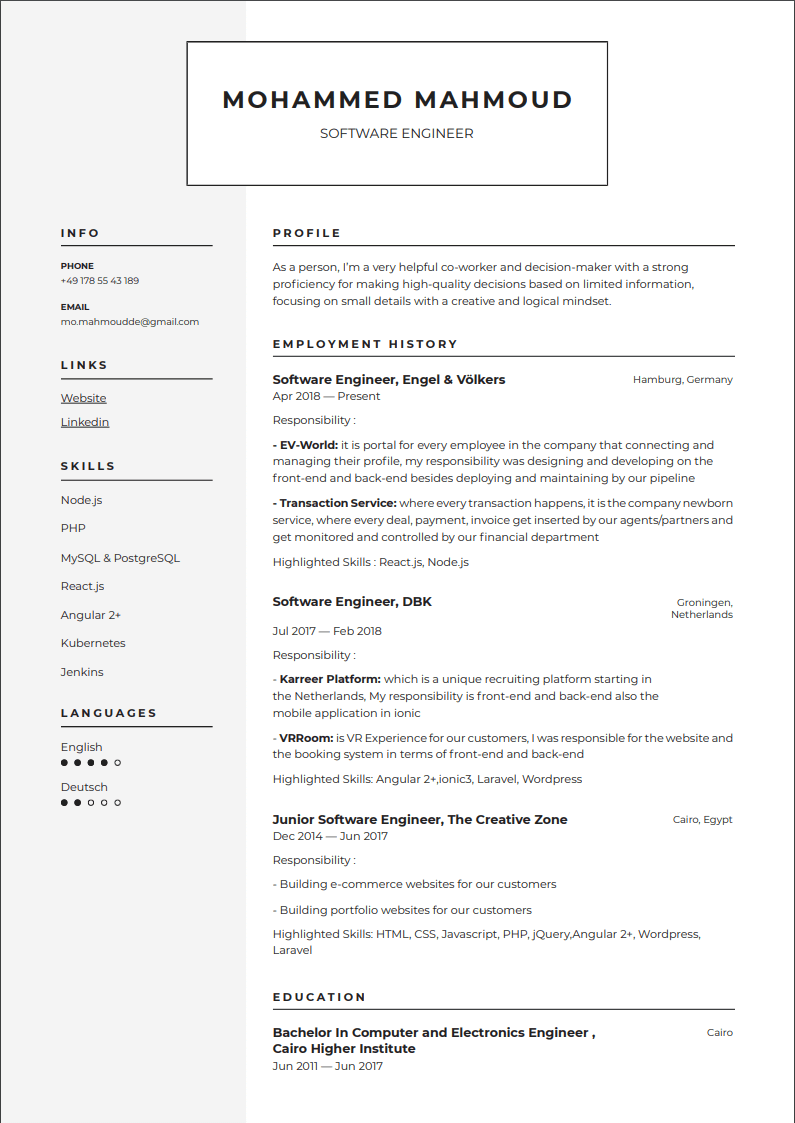
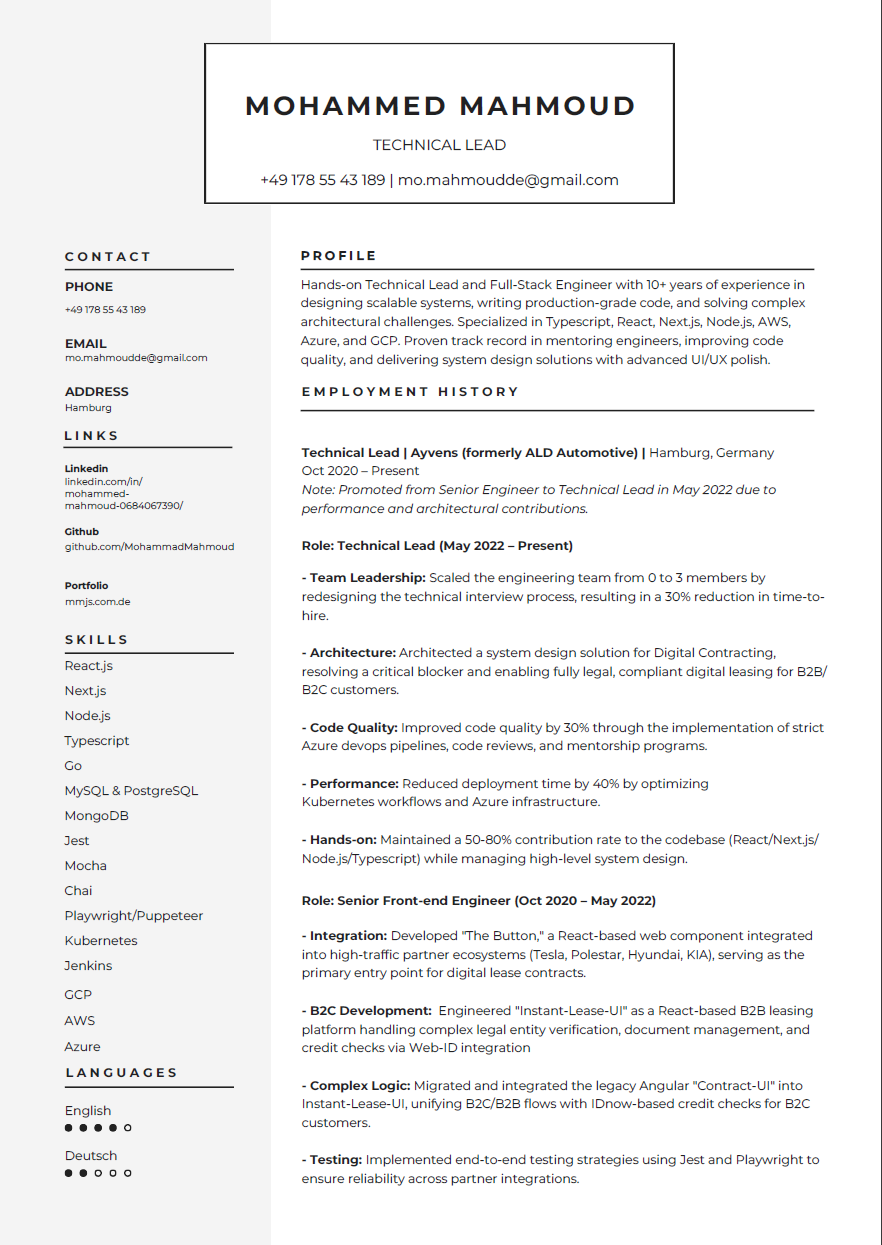
Update skills list and CV image in About page
- Update CV image file
- Standardize technology names (JavaScript, TypeScript)
- Expand cloud platform names with full forms
- Add database and API skills (GraphQL, MySQL, etc.)
- Include system design and cloud architecture

Changed region(s): [[0.2113, 0.0312, 0.9358, 0.9662], [0.0604, 0.187, 0.2717, 0.7792], [0.0604, 0.8103, 0.2113, 0.9662]]

diff --git a/src/components/pages/about.tsx b/src/components/pages/about.tsx
@@ -154,23 +154,30 @@ export default function About() {
             {[
               'HTML',
               'CSS',
-              'Javascript',
-              'Typescript',
+              'JavaScript',
+              'TypeScript',
               'React',
               'Next.js',
-              'Node js',
-              'Express js',
+              'Node.js',
+              'Express.js',
               'Fastify',
               'Go',
-              'AWS',
-              'Azure',
-              'GCP',
+              'Amazon Web Services (AWS)',
+              'Microsoft Azure',
+              'Google Cloud Platform (GCP)',
               'Kubernetes',
-              'CI/CD (Jenkins, pipelines)',
+              'CI/CD (Jenkins, Azure DevOps)',
               'Jest',
               'Mocha',
               'Chai',
               'Playwright',
+              'GraphQL',
+              'MySQL',
+              'PostgreSQL',
+              'MongoDB',
+              'REST APIs',
+              'System Design',
+              'Cloud Architecture',
             ].map((skill) => (
               <Badge key={skill}>
                 <span className='text-sm py-1 px-1'>{skill}</span>
